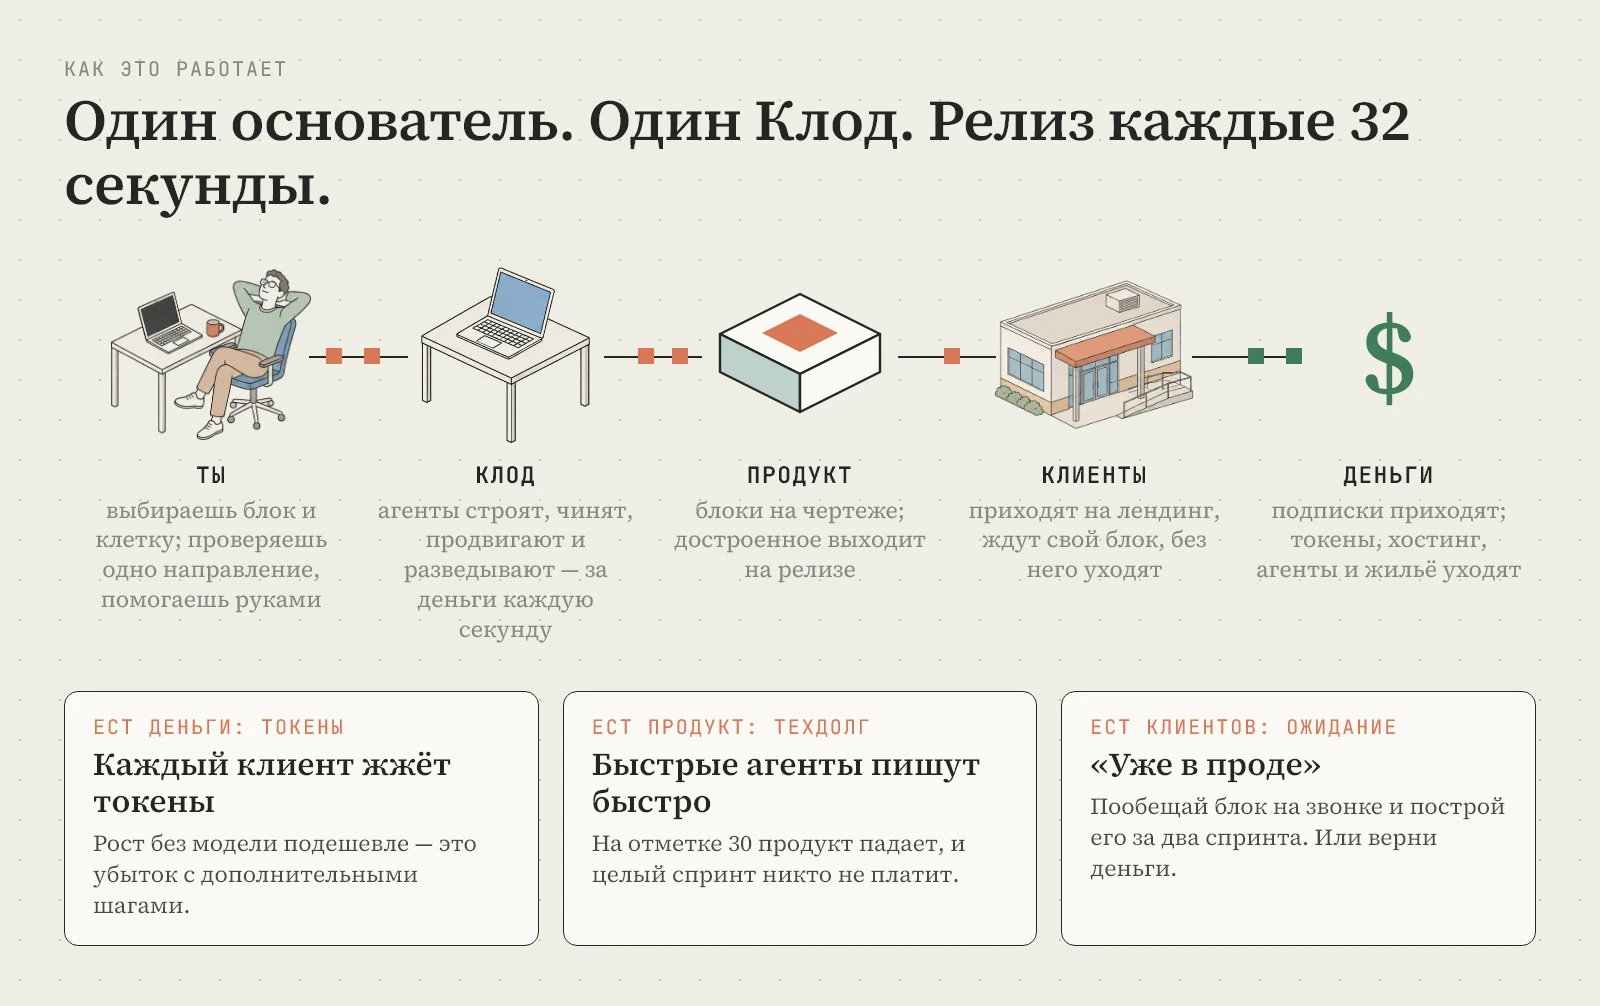
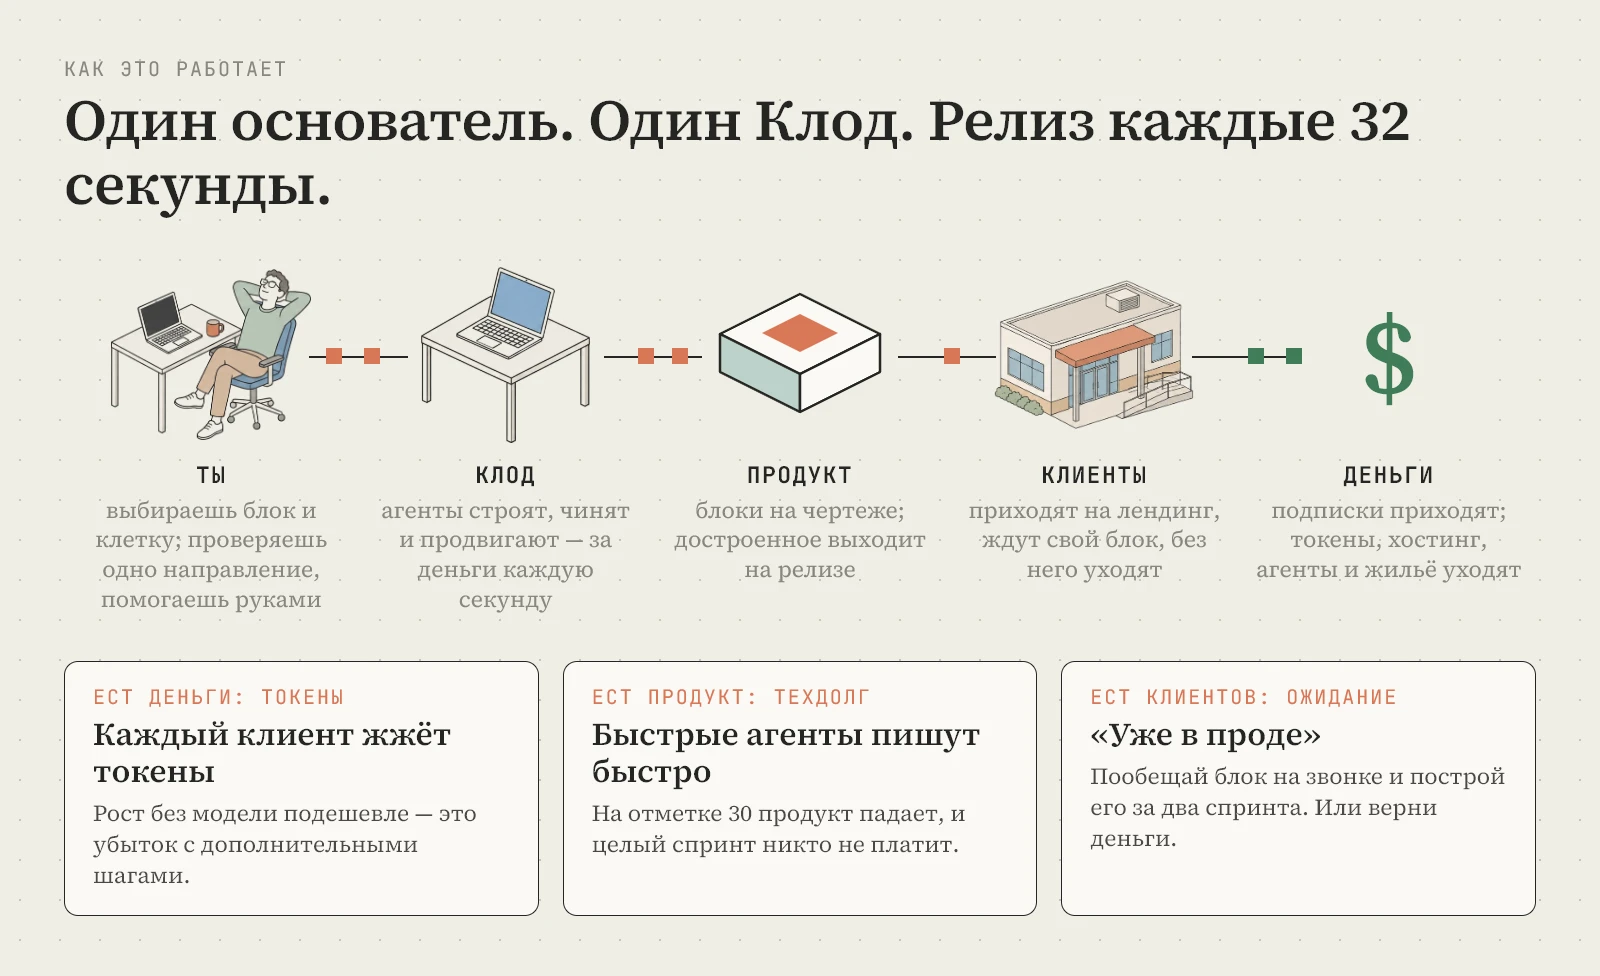
docs: remove research from game descriptions (#13 #15)

diff --git a/art/readme/loop.html b/art/readme/loop.html
@@ -47,7 +47,7 @@
           <div class="pad"></div>
           <div class="pic"><img src="../../public/assets/img/nodes/laptop.webp" /></div>
           <b data-en="CLAUDE" data-ru="КЛОД"></b>
-          <span data-en="agents build, fix, promote and research — for money every second" data-ru="агенты строят, чинят, продвигают и разведывают — за деньги каждую секунду"></span>
+          <span data-en="agents build, fix and promote — for money every second" data-ru="агенты строят, чинят и продвигают — за деньги каждую секунду"></span>
         </div>
         <div class="st">
           <div class="pad"></div>

diff --git a/.studioigor/DESIGN.md b/.studioigor/DESIGN.md
@@ -2,6 +2,8 @@
 
 A living document. Changes after playtests — with a line in "Changelog".
 
+Текущая корректировка, 2026-11-16, решение #75 / GitHub #13: исследования полностью удаляются. Потребности клиентов и бонусы построек видны сразу, рынок и новости сохраняются. В активной игре три направления работы: стройка, починка, продвижение; отдельной валюты или панели знаний нет. Исторические записи ниже не возвращают отменённую механику.
+
 ## Mechanics
 <!-- Statuses: idea → spec → gym → playtest → locked, or cut. tier: mvp — needed
 for the vertical slice; full — later. Before a mechanic — research research/mech-<id>.md. -->
@@ -10,7 +12,7 @@ for the vertical slice; full — later. Before a mechanic — research research/
 | M01 | Стройка продукта: выбрать следующий блок и место на чертеже, агенты строят — квадраты летят в блок; релиз в конце спринта и строка метрик | mvp | Продукт собран твоими руками | locked | `?gym=build` | цикл 30 с; главный риск — стройка должна быть выбором, а не очередью |
 | M02 | Сбережения, токены и агенты: счётчик $ и запас хода в спринтах; расход — агенты трёх тарифов и токены на каждого клиента; ноль — банкротство | mvp | Деньги горят каждую секунду | locked | `?gym=build` | даёт спринту давление; в одной сцене с M01 |
 | M03 | Клиенты-компании: здания на чертеже, платят подписку, у каждого запрос и терпение; приходят от продвижения, уходят, если запрос не закрыт или продукт лежит | mvp | Клиента надо расспросить | locked | `?gym=build` | |
-| M04 | Разведка: расспросить клиентов — открыть скрытые запросы рынка (какой блок нужен); расклад новый каждый забег | mvp | Клиента надо расспросить | locked | `?gym=build` | |
+| M04 | Разведка и отдельные исследования | mvp | Потребности клиентов | cut | — | удалено решением пользователя #75; потребности доступны сразу |
 | M05 | Одна проверка за спринт и технический долг: проверенное без долга, остальное копит; долг режет стройку и роняет продукт | mvp | Узкое горлышко — это ты | locked | `?gym=build` | |
 | M06 | Смесь идеи: три колоды — ИИ-приём × на что похоже × для кого; из трёх карт каждой выбираешь одну; карты меняют экономику, клиентов и события | mvp | Продукт собран твоими руками | locked | `/` (полный цикл) | |
 | M08 | Этапы и отъезд камеры: кухня → первые клиенты → город клиентов; пороги по подпискам открывают блоки и агентов | mvp | Продукт собран твоими руками | locked | `?gym=build` | |
@@ -134,11 +136,9 @@ acceptance criteria · "feel" (targets) · research: research/mech-M01.md -->
 - research: research/mech-M03.md
 
 ### M04 — Разведка
-- hypothesis: если ожидания клиентов скрыты, пока их не расспросишь, игрок выделяет агента на разведку раньше, чем строит наугад, — видно по тому, что разведка стоит у него на втором агенте, а не забыта
-- pillar: Клиента надо расспросить · rules: рынок просит 3 блока из 8 возможных, расклад новый каждый забег; 6 квадратов разведки открывают один запрос; открытый запрос помечен на полке словом «просят» и виден в подписи клиента; закрытый — «чего-то ждёт»; корпоративные запросы открываются со второго этапа
-- parameters (run.json): research_work_per_reveal; blocks.json → role ask / corp
-- acceptance: бот с разведкой выживает чаще бота, строящего наугад (tests/balance.test.ts)
-- research: research/mech-M04.md
+- status: cut, решение пользователя #75 после плейтеста 0.4.0.
+- rules: потребности клиентов, текущий спрос и бонусы построек доступны без исследования; реальные изменения рынка сохраняются.
+- acceptance: нет назначения исследователей, платы за исследование, меню отчётов и закрытых потребностей; старые сохранения продолжаются.
 
 ### M05 — Проверка и технический долг
 - hypothesis: если проверить можно только одно направление за спринт, игрок каждый спринт выбирает, где сегодня будет грязно, — видно по тому, что он переключает проверку перед релизом и держит долг ниже порога
@@ -192,8 +192,11 @@ acceptance criteria · "feel" (targets) · research: research/mech-M01.md -->
 - acceptance: у бота квартира заложена в 7 из 24 забегов и все 7 дожили до конца; карточка банка не закрывает продукт
 - research: research/mech-M15.md
 
-## Changelog| date | what | why |
+## Changelog
+
+| date | what | why |
 |---|---|---|
+| 2026-11-16 | M04 удалена; потребности и бонусы доступны сразу, остаются три направления работы | решение пользователя #75: исследования бесполезны и усложняют интерфейс |
 | 2026-11-14 | черновик механик, экономики и сложности | набросок ideas/pivot-driven-development.md и интервью фазы 1 |
 | 2026-11-15 | PT-13: реиграбельность и вариативность — черты основателя и ставка (M25), выбор карточками (M26), набор блоков и тесный чертёж со сносом (M27), тренды (M28), открытия (M29); полка блоков — плотная сетка; агент без дела бесплатен; у найма написано, что открывает агентов и места | PT-13: «сейчас кое как проходится одна компания… потом не понятно что еще делать», «малая вариативность», «нужно больше геймлейных механик» |
 | 2026-11-15 | PT-11: дилеммы (M23), явный рост через места и чек (M24); темп на четверть быстрее — спринт 32 с вместо 40, забег 16 минут, расходы и скорость работы в секунду выросли на ту же четверть, сил у основателя 8 и копятся за 3 с; музыка — «Чиптюн» по выбору пользователя | PT-11: «Лучше, но ещё не то»; выбраны «Решений с ценой», «Темпа: много жду», «Людей и событий» |

diff --git a/docs/plans/2026-11-16-remove-research.md b/docs/plans/2026-11-16-remove-research.md
@@ -9,6 +9,6 @@
 5. Независимая приёмка (#16): ревью модели/интерфейса, проверка целой сборки и ограничений баланса. Готовность: существенных ошибок нет, тесты/lint/build и CAPTURE проходят.
 6. Локальная передача (#11/#13): результаты в GitHub, версия открыта в обычном Chrome, без публикации. Готовность: окно и итоговая сборка проверены.
 
-Модельный владелец: systems, data/balance, gyms/bot, тесты. UI-владелец: game, ui, content, остальные данные, gyms/keys и lookdev. Общие контракты согласуются до удаления экспортов; слить поочерёдно после ревью. Ведущий не правит игровые файлы исполнителей.
+Модельный владелец: systems, data/balance, gyms/bot, тесты. UI-владелец: game, ui, content, остальные данные, gyms/keys и lookdev. Общие контракты: ACTIVE_TECHS, collectionLessons(meta), прямые segmentView/priceForecast. Обе части коммитятся отдельно; ведущий объединяет модель с UI в UI-worktree, целую механику проверяют до переноса в основную сборку. Ведущий не правит игровые файлы исполнителей.
 
 Покрытие: интерфейс агентов → #12; удаление роли/отчётов/ограничений и сохранения → #14; видимые нужды/бонусы и контент → #15; независимая проверка → #16. Новая механика исследований не проектируется.

diff --git a/README.ru.md b/README.ru.md
@@ -22,7 +22,7 @@
 2. Поставь на чертёж обёртку над Клодом. Добавь лендинг. Про приём оплаты вспомни позже, чем следовало.
 3. Выйди в плюс за 30 спринтов. Или хотя бы красиво закройся и напиши об этом тред.
 
-<p align="center"><img src="docs/img/ru/loop.webp" alt="Как это работает: ты выбираешь блоки и проверяешь одно направление; агенты Клода строят, чинят, продвигают и разведывают за деньги каждую секунду; достроенные блоки выходят на релизе; клиенты приходят на лендинг, ждут свой блок и без него уходят; подписки приходят, токены, хостинг, агенты и жильё уходят. Стартап убивают три вещи: токены, техдолг и ждущие клиенты" width="100%"></p>
+<p align="center"><img src="docs/img/ru/loop.webp" alt="Как это работает: ты выбираешь блоки и проверяешь одно направление; агенты Клода строят, чинят и продвигают за деньги каждую секунду; достроенные блоки выходят на релизе; клиенты приходят на лендинг, ждут свой блок и без него уходят; подписки приходят, токены, хостинг, агенты и жильё уходят. Стартап убивают три вещи: токены, техдолг и ждущие клиенты" width="100%"></p>
 
 ## Как это выглядит
 

diff --git a/README.md b/README.md
@@ -22,7 +22,7 @@ A tycoon about building an AI startup alone. The team is Claude. The money is yo
 2. Put a Claude wrapper on the blueprint. Add a landing page. Remember about payments later than you should.
 3. Turn a profit within 30 sprints. Or at least shut down gracefully and write a thread about it.
 
-<p align="center"><img src="docs/img/en/loop.webp" alt="How it works: you pick blocks and review one lane; Claude’s agents build, fix, promote and research for money every second; finished blocks ship at the release; clients come for the landing page, wait for their block and leave without it; subscriptions come in, tokens, hosting, agents and rent go out. Three things kill a startup: tokens, tech debt and waiting clients" width="100%"></p>
+<p align="center"><img src="docs/img/en/loop.webp" alt="How it works: you pick blocks and review one lane; Claude’s agents build, fix and promote for money every second; finished blocks ship at the release; clients come for the landing page, wait for their block and leave without it; subscriptions come in, tokens, hosting, agents and rent go out. Three things kill a startup: tokens, tech debt and waiting clients" width="100%"></p>
 
 ## What it looks like
 
